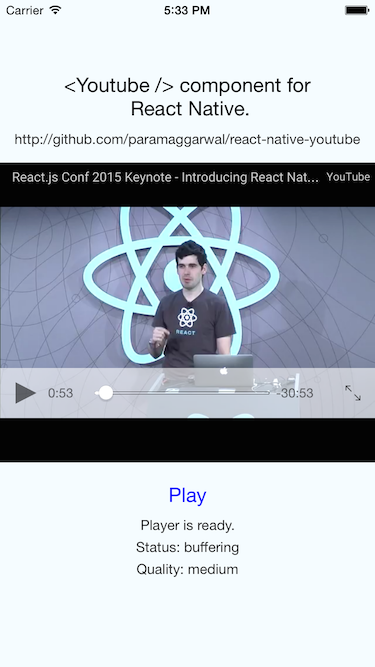
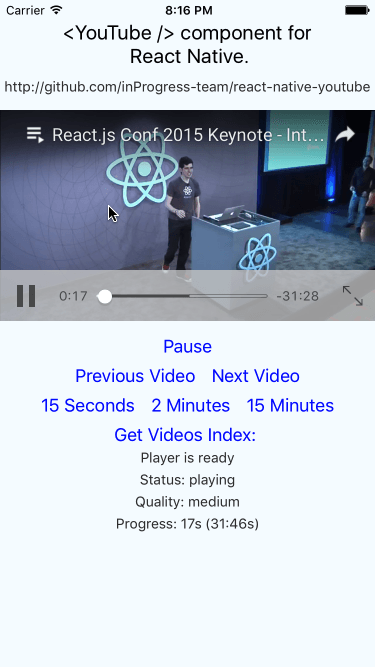
README changes for v1

diff --git a/README.md b/README.md
@@ -1,109 +1,100 @@
 # react-native-youtube [![react-native-youtube](http://img.shields.io/npm/dm/react-native-youtube.svg)](https://www.npmjs.org/package/react-native-youtube) [![npm version](https://badge.fury.io/js/react-native-youtube.svg)](http://badge.fury.io/js/react-native-youtube) [![Dependency Status](https://david-dm.org/inProgress-team/react-native-youtube.svg)](https://david-dm.org/inProgress-team/react-native-youtube)
-A `<YouTube/>` component for React Native.
+A `<YouTube />` component for React Native.
 
-Uses Google's official [youtube-ios-player-helper](https://github.com/youtube/youtube-ios-player-helper) and exposes much of the API into React Native.
+Uses Google's official [youtube-ios-player-helper](https://github.com/youtube/youtube-ios-player-helper) for iOS and [Android Player API](https://developers.google.com/youtube/android/player/) for Android and exposes much of the API, as declaratively as possible, into React Native.
 
 ## Screenshot
 
-![Screenshot of the example app](https://github.com/paramaggarwal/react-native-youtube/raw/master/Screenshot.png)
+![Screenshot of the example app](https://github.com/inProgress-team/react-native-youtube/raw/master/Screenshot.png)
 
 ## Usage
 
 ```javascript
 <YouTube
-  ref="youtubePlayer"
-  videoId="KVZ-P-ZI6W4" // The YouTube video ID
-  play={true}           // control playback of video with true/false
-  hidden={false}        // control visiblity of the entire view
-  playsInline={true}    // control whether the video should play inline
-  loop={false}          // control whether the video should loop when ended
+  ref={(component) => { this._youTubePlayer = component }}
+  videoId="KVZ-P-ZI6W4"           // The YouTube video ID
+  playlist="PLF797E961509B4EB5"   // A playlist's ID, overridden by `videoId`
+  play={true}                     // control playback of video with true/false
+  playsInline={true}              // control whether the video should play full-screen or inline
+  loop={false}                    // control whether the video should loop when ended
 
-  onReady={(e)=>{this.setState({isReady: true})}}
-  onChangeState={(e)=>{this.setState({status: e.state})}}
-  onChangeQuality={(e)=>{this.setState({quality: e.quality})}}
-  onError={(e)=>{this.setState({error: e.error})}}
-  onProgress={(e)=>{this.setState({currentTime: e.currentTime, duration: e.duration})}}
+  onReady={e => this.setState({ isReady: true })}
+  onChangeState={e => this.setState({ status: e.state })}
+  onChangeQuality={e => this.setState({ quality: e.quality })}
+  onError={e => this.setState({ error: e.error })}
+  onProgress={e => this.setState({ currentTime: e.currentTime, duration: e.duration })}
 
-  style={{alignSelf: 'stretch', height: 300, backgroundColor: 'black', marginVertical: 10}}
+  style={{ alignSelf: 'stretch', height: 300, backgroundColor: 'black', marginVertical: 10 }}
 />
 ```
 ```javascript
-this.refs.youtubePlayer.seekTo(20);
+this._youTubePlayer.seekTo(20);
+this._youTubePlayer.nextVideo();
+this._youTubePlayer.previousVideo();
+this._youTubePlayer.playVideoAt(2);
 ```
 
 ## Properties
 
-* `videoID`: The YouTube video ID to play, can be changed to change the video playing.
+* `apiKey`: This parameter is required on Android for the YouTube API to work. [More Info](https://developers.google.com/youtube/android/player/register).
+* `videoId`: The YouTube video ID to play. Can be changed while mounted to change the video playing.
+* `videoIds`: An array of YouTube video IDs to be played as an interactive playlist. Can be changed while mounted. Overridden at start by `videoId`.
+* `playlistId`: A YouTube Playlist's ID to play as an interactive playlist.
+Can be changed while mounted. Overridden at start by `videoId` and `videoIds`.
 * `play`: Controls playback of video with `true`/`false`. Setting it as `true` in the beginning itself makes the video autoplay on loading.
-* `hidden`: Controls the `view.hidden` native property. For example, use this to hide player while it loads.
-* `playsInline`: Controls whether the video should play inline, or in full screen.
-* `rel`: Hides related videos at the end of the video. Default `false`.
 * `loop`: Loops the video. Default `false`.
-* `modestbranding`: This parameter lets you use a YouTube player that does not show a YouTube logo. Default `false`.
-* `controls`: This parameter indicates whether the video player controls are displayed. Supported values are `0`, `1`, `2`. Default `1`. [More information](https://developers.google.com/youtube/player_parameters?hl=en#controls)
-* `showinfo`: Setting the parameter's value to false causes the player to not display information like the video title and uploader before the video starts playing. Default `true`.
-* `origin`: This parameter provides an extra security measure for the IFrame API.
-* `apiKey`: This parameter is required on Android for the YouTube API to work.
+* `playsInline`: Controls whether the video should play inline, or in full-screen. Default `false`.
+* `rel` *(iOS)*: Hides related videos at the end of the video. Default `false`.
+* `modestbranding` *(iOS)*: This parameter lets you use a YouTube player that does not show a YouTube logo. Default `false`.
+* `controls`: This number parameter indicates whether the video player controls are displayed. Supported values are `0`, `1`, `2`. Default `1`. [More information](https://developers.google.com/youtube/player_parameters?hl=en#controls)
+* `showinfo` *(iOS)*: Setting the parameter's value to false causes the player to not display information like the video title and uploader before the video starts playing. Default `false`.
+* `origin` *(iOS)*: This string parameter provides an extra security measure for the IFrame API.
+
+The iOS implementation of this player uses the official YouTube iFrame under the hood, so most parameters behavior [can be further understood here.](https://developers.google.com/youtube/player_parameters)
+
 
 ## Events
 
-* `onReady`: This function is called when the video player is setup.
+* `onReady`: Called once when the video player is setup.
 * `onChangeState`: Sends the current state of the player on `e.state`. Common values are `buffering`/`playing`/`paused` and more.
 * `onChangeQuality`: Sends the current quality of video playback on `e.quality`.
-* `onError`: Sends any errors during video playback on `e.error`.
-* `onProgress`: Sends any time progress made on `e.currentTime` and `e.duration`.
+* `onError`: Sends any errors before and during video playback on `e.error`.
+* `onProgress` *(iOS)*: Sends any time progress made on `e.currentTime` and `e.duration`.
 
 ## Methods
 
-* `seekTo(seconds)`: Seeks to a specified time in the video
+* `seekTo(seconds)`: Seeks to a specified time in the video.
+* `nextVideo()`: Skip to next video on a playlist (`videoIds` or `playlistId`). When `loop` is true, will skip to the first video from the last. If called on a single video, will restart the video.
+* `previousVideo()`: opposite of `nextVideo()`.
+* `playVideoAt(index)`: Will start playing the video at `index` (zero-based) position in a playlist (`videoIds` or `playlistId`. Not supported for `playlistId` on Android).
+* `videosIndex()`: A Promise that returns the `index` (zero-based) of the video currently played in a playlist (`videoIds` or `playlistId`. Not supported for `playlistId` on Android).
+* `reloadIframe()` *(iOS)*: iFrame specific parameters (`playsinline`, `modestbranding`, `showinfo`, `rel`, `controls`, `origin`) can only be set at mounting and initial loading of the underlying iFrame. If you want to changed one of them during the lifecycle of the component you should know the UX cost of loading the iFrame again and use this method right after the component was rendered with the updated prop.
 
-### Installation
+## Installation
 
-##### IOS
-(requires react-native >= 0.6.0)
+This component is fully tried on react-native >= 0.37.0. Lower versions should work but are not guaranteed.
 
-`$ rnpm install react-native-youtube`
+* Install the latest version to your `package.json`:
 
-`$ add YTPlayerView-iframe-player.html from Assets to your xcode project`
+`$ npm install react-native-youtube -S`
 
-##### Android : rnpm is not working yet !!
+* Link the library to your project with:
 
-In node_module :
+`$ react-native link`
 
-`$ git clone https://github.com/inProgress-team/react-native-youtube.git`
+**IMPORTANT! (iOS Only)**: To link Assets/YTPlayerView-iframe-player.html to your project `react-native link` is not enough (As of RN ~0.37). You will need to *also* use the older tool it is based on, `rnpm` (This step must be done *in conjunction, and after* `react-native link`):
 
-Then add in settings.gradle :
- ```
-include ':RCTYouTube', ':app'
-project(':RCTYouTube').projectDir = new File(rootProject.projectDir, '../node_modules/react-native-youtube/RCTYouTube')
- ```
-In build.gradle :
+* First, if you don't have it installed, globally install `rnpm` (Version 1.9.0):
 
- ```
- dependencies {
-    [...]
-    compile project(':RCTYouTube')     // From node_modules
-   
-} 
-```
+`$ npm install -g rnpm`
 
-In MainApplication.java :
+* Then back inside the the project's root folder type:
 
-```
-import com.inprogress.reactnativeyoutube.ReactNativeYouTube;
+`$ rnpm link`
 
-[...]
+(This step can also be done manually by adding `../node_modules/react-native-youtube/Assets/YTPlayerView-iframe-player.html` to your root Xcode project's directory)
 
- @Override
-    protected List<ReactPackage> getPackages() {
-      return Arrays.<ReactPackage>asList(
-          new MainReactPackage(),
-              new ReactNativeYouTube()
-      );
-    }
- ```
-
-##### OPTIONAL : Activated sound when phone is on vibrate mode
+##### OPTIONAL: Activated sound when phone is on vibrate mode
 
 Open AppDelegate.m and add :
 
@@ -111,20 +102,38 @@ Open AppDelegate.m and add :
 
 * `[[AVAudioSession sharedInstance] setCategory:AVAudioSessionCategoryPlayback error: nil];` in your didFinishLaunchingWithOptions method
 
-## Example
-Try the included `RCTYouTubeExample`:
+#### A note about the Android implementation and multiple `<YouTube />` instances
+The YouTube API for Android is a *singleton*. What it means is that unlike the iOS implementation, no two players can be mounted and play a video at the same time. If you have two scenes that happen to live together, or come one after the other (such as when navigating to a new scene), The new `<YouTube />` Will take the focus of the singleton and play the video, but after being unmounted, the older mounted `<YouTube />` will not be able to take the role back, and will need to be re-mounted.
+
+#### A note about working with Android Virtual Devices (AVDs)
+Virtual devices running inside a desktop are usually much slower than a real device. For that reason, certain irregular behaviors can occur with the native player such as when the player fails to reposition correctly inside React-Native's views hierarchy and will only appear after another render of an ancestor view. In other times some of the player's internal mechanisms that prevent it from playing while being covered, or when the view is too small, will trigger for no good reason.
+
+These behaviors can be pretty worrisome, and wrongfully get you to think the library is broken. At this point these irregularities seems to be unavoidable due to the way React-Native works and the too many moving parts that work in coordination. **Make sure to test your app on a real device to check if these irregularities persist. Most of them will not occur on an average hardware.**
+
+These possible irregularities should be further taken care of by maintainers.
+
+## Example and Development
+This library comes with an example project that can be used for viewing, developing and testing all functionalities on a dedicated clean app project.
+
+First copy the git repository and install the React-Native project inside `example`
 
 ```sh
-git clone git@github.com:paramaggarwal/react-native-youtube.git
-cd react-native-youtube/Example
+git clone https://github.com/inProgress-team/react-native-youtube.git
+cd react-native-youtube/example
 npm install
-open RCTYouTubeExample.xcodeproj
+react-native link
+rnpm link
 ```
-Then `Cmd+R` to start the React Packager, build and run the project in the simulator.
+
+Then build and run with `react-native run-ios` / `react-native run-android` or your favorite IDE.
+
+#### For Developers
+The `react-native-youtube` dependency in the example's `package.json` points back to the working folder at `file:../` so you can re-install it with `npm install react-native-youtube@file:../` (inside `example` folder) and test your changes on the example app right on the spot.
+
 
 ## Author
 * Param Aggarwal (paramaggarwal@gmail.com)
-* Ownership has been transfered to inProgress-team
+* Ownership has been transferred to inProgress-team
 
 ## License
 MIT License
